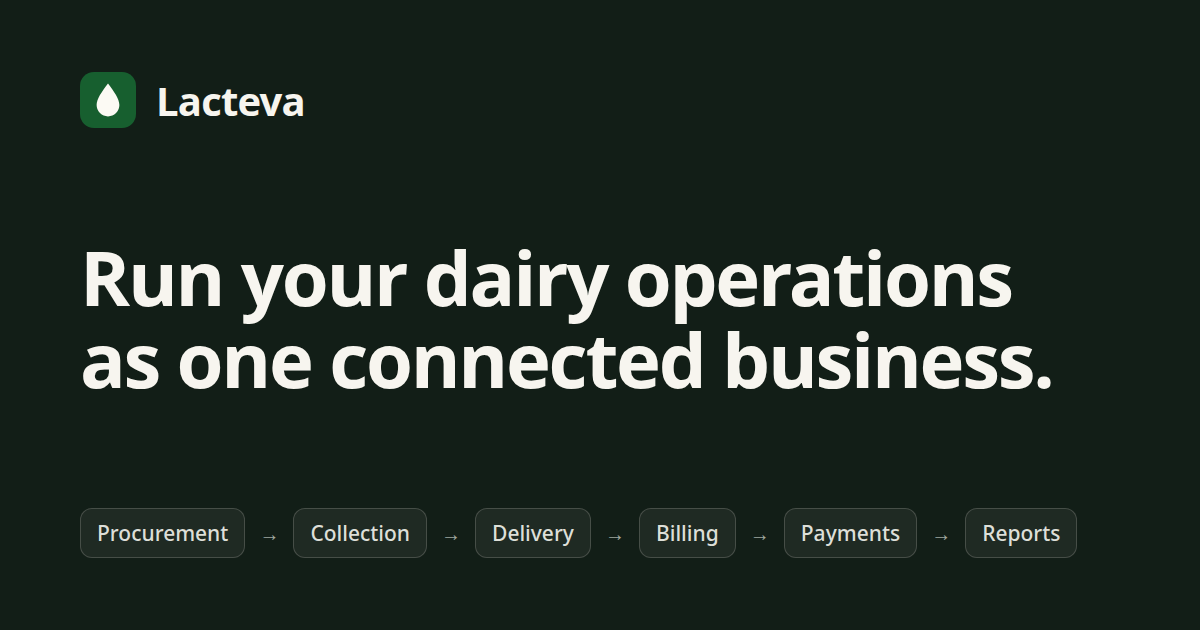
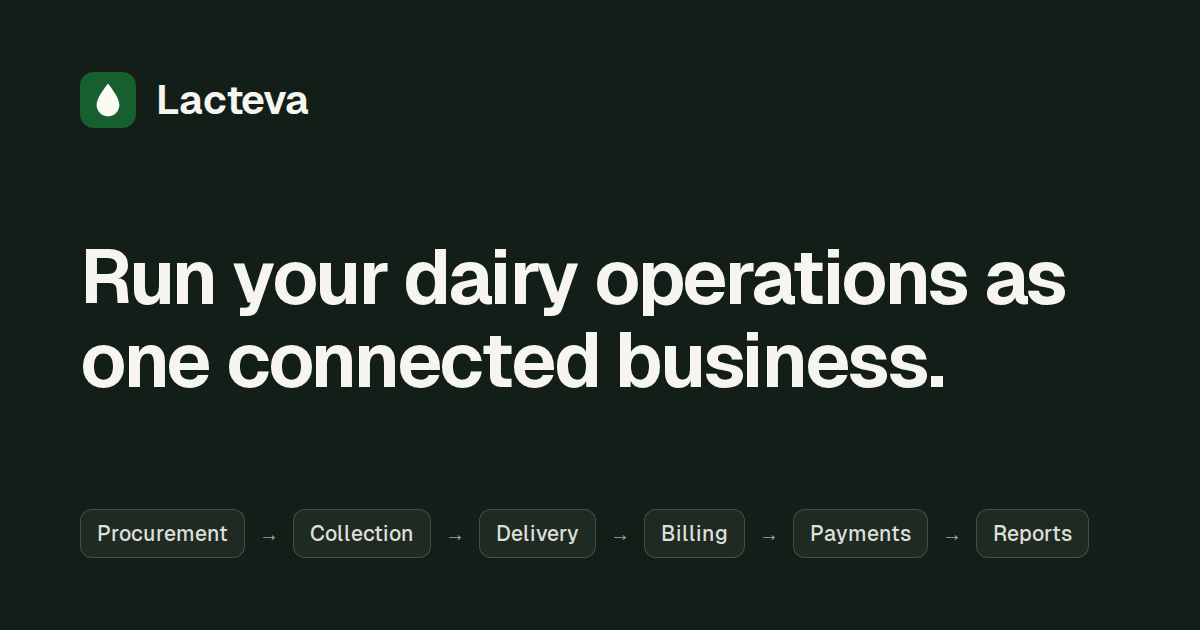
PRE-LAUNCH-001: fix final marketing launch issues
Login added to the mobile navigation row (was sm:-gated; phones had no
header path to the portal), pinned by a header test. The lifecycle's
desktop row-wrap gained its missing connector - the arrow after
Delivery turns down-and-left so eight stages read as one continuous
flow. /why-lacteva retired behind a temporary redirect to /product
(pre-repositioning narrative); page deleted, footer/sitemap updated.
The fifty-plus-countries line became 'built to support dairy
operations across markets' and a claims pattern bans numerical
geographic claims. OG image re-rendered in Geist (woff2 from inside
Next). About -> /company kept per decision. Privacy/terms/contact
email deliberately untouched pending owner content.

Gates: build (16 routes), tsc, eslint --max-warnings 0, 49 tests;
audit across 7 pages x 4 viewports NO PROBLEMS; both retired routes
307 to /product. CHANGELOG entry rides with the parallel session's
DEMO-021 commit (shared worktree, same protocol as MKT-004C).

Claude-Session: https://claude.ai/code/session_018AZvc3DefN4kC4NocUS5mD

diff --git a/apps/marketing-site/src/app/marketing-pages.test.tsx b/apps/marketing-site/src/app/marketing-pages.test.tsx
@@ -2,6 +2,7 @@ import { render, screen } from "@testing-library/react";
 import userEvent from "@testing-library/user-event";
 import { afterEach, describe, expect, it, vi } from "vitest";
 import { LeadForm } from "@/components/lead-form";
+import { SiteHeader } from "@/components/site-header";
 import LoginPage from "./login/page";
 import PricingPage from "./pricing/page";
 import ProductPage from "./product/page";
@@ -96,6 +97,20 @@ describe("pricing page (MKT-004E)", () => {
     for (const link of screen.getAllByRole("link", { name: /book a demo/i })) {
       expect(link).toHaveAttribute("href", "/request-demo");
     }
+  });
+});
+
+describe("site header (PRE-LAUNCH-001)", () => {
+  it("offers Login in both the desktop and mobile navigation", () => {
+    render(<SiteHeader />);
+    const logins = screen.getAllByRole("link", { name: /^login$/i });
+    // One sm+ link and one inside the mobile nav row.
+    expect(logins.length).toBe(2);
+    for (const link of logins) {
+      expect(link).toHaveAttribute("href", "/login");
+    }
+    const mobileNav = screen.getByRole("navigation", { name: /main mobile/i });
+    expect(mobileNav.querySelector('a[href="/login"]')).not.toBeNull();
   });
 });
 

diff --git a/apps/marketing-site/src/components/lifecycle-flow.tsx b/apps/marketing-site/src/components/lifecycle-flow.tsx
@@ -3,6 +3,7 @@ import {
   BarChart3,
   ChevronDown,
   ChevronRight,
+  CornerDownLeft,
   FileText,
   Handshake,
   Milk,
@@ -51,11 +52,16 @@ export function LifecycleFlow() {
               <ChevronDown className="size-4 text-ink-muted" />
             </span>
           ) : null}
-          {/* Desktop connector: within a row only — the wrap from stage 4
-              to stage 5 reads top-to-bottom on its own. */}
-          {i < STAGES.length - 1 && i !== 3 ? (
+          {/* Desktop connector. At the row wrap (stage 4 → 5) the arrow
+              turns down-and-left, so the flow reads as one continuous
+              line instead of breaking at the row edge (PRE-LAUNCH-001). */}
+          {i < STAGES.length - 1 ? (
             <span aria-hidden className="hidden items-center px-1 lg:flex">
-              <ChevronRight className="size-4 shrink-0 text-ink-muted" />
+              {i === 3 ? (
+                <CornerDownLeft className="size-4 shrink-0 text-ink-muted" />
+              ) : (
+                <ChevronRight className="size-4 shrink-0 text-ink-muted" />
+              )}
             </span>
           ) : null}
         </li>

diff --git a/apps/marketing-site/src/app/company/page.tsx b/apps/marketing-site/src/app/company/page.tsx
@@ -81,7 +81,7 @@ export default function CompanyPage() {
         <SectionHeading
           eyebrow="How we build"
           title="Every production guarantee must be executable"
-          lede="Lacteva is built under the Phoenix Software Engineering Standard: guarantees are proven by running them, not by writing them down. Backups restore, recovery is rehearsed, and a test that never ran counts as absent. Ambitious on scope — the long-term vision is a dairy platform serving businesses across fifty-plus countries — and deliberately conservative on claims: this page describes what exists."
+          lede="Lacteva is built under the Phoenix Software Engineering Standard: guarantees are proven by running them, not by writing them down. Backups restore, recovery is rehearsed, and a test that never ran counts as absent. Built to support dairy operations across markets — and deliberately conservative on claims: this page describes what exists."
         />
         <div className="flex flex-wrap items-center gap-3 pt-2">
           <LinkButton href="/start-free-trial">Start Free Trial</LinkButton>

diff --git a/apps/marketing-site/src/components/site-header.tsx b/apps/marketing-site/src/components/site-header.tsx
@@ -3,8 +3,7 @@ import { LinkButton } from "@/components/link-button";
 import { Wordmark } from "@/components/logo";
 
 // Final navigation (MKT-004E). "Resources" stays deferred until there is
-// real content to put behind it; /why-lacteva remains reachable from the
-// footer.
+// real content to put behind it. "About" → /company is intentional.
 const NAV = [
   { href: "/product", label: "Product" },
   { href: "/solutions", label: "Solutions" },
@@ -61,6 +60,15 @@ export function SiteHeader() {
             {item.label}
           </Link>
         ))}
+        {/* PRE-LAUNCH-001: the desktop Login link is sm:block, so phones
+            need it here — existing customers arrive on phones too. */}
+        <Link
+          href="/login"
+          prefetch={false}
+          className="ms-auto text-sm font-medium whitespace-nowrap text-muted-foreground"
+        >
+          Login
+        </Link>
       </nav>
     </header>
   );

diff --git a/apps/marketing-site/src/app/claims.test.ts b/apps/marketing-site/src/app/claims.test.ts
@@ -45,6 +45,9 @@ const FORBIDDEN: Array<{ pattern: RegExp; why: string }> = [
   { pattern: /world'?s (first|largest|best|leading)|largest dairy/i, why: "no market-position superlatives" },
   { pattern: /\bguaranteed\b/i, why: "no guarantees are commercially defined" },
   { pattern: /SOC ?2|ISO ?\d{4,5}|GDPR|HIPAA|PCI[- ]DSS/i, why: "no certifications or compliance attestations exist to claim" },
+  // PRE-LAUNCH-001: no numerical geographic claims — "across markets" is
+  // the approved phrasing.
+  { pattern: /(fifty|forty|thirty|twenty|\d+)[-+\s]*(plus\s+)?countries/i, why: "no numerical geographic claims" },
 ];
 
 function collectSourceFiles(dir: string): string[] {

diff --git a/apps/marketing-site/next.config.ts b/apps/marketing-site/next.config.ts
@@ -42,6 +42,9 @@ const nextConfig: NextConfig = {
   async redirects() {
     const redirects = [
       { source: "/editions", destination: "/product", permanent: false },
+      // PRE-LAUNCH-001: the page carried the pre-repositioning
+      // procurement-first narrative; retired the same way as /editions.
+      { source: "/why-lacteva", destination: "/product", permanent: false },
     ];
     // MKT-004E: /login hands over to the separately deployed authenticated
     // portal when its URL is configured. Unset (local dev without a

diff --git a/apps/marketing-site/src/app/seo.test.ts b/apps/marketing-site/src/app/seo.test.ts
@@ -16,6 +16,7 @@ describe("indexing surface", () => {
     expect(urls).toContain("/pricing");
     expect(urls).not.toContain("/login");
     expect(urls).not.toContain("/editions");
+    expect(urls).not.toContain("/why-lacteva");
     for (const url of urls) {
       expect(url).not.toMatch(/^\/api/);
     }

diff --git a/apps/marketing-site/src/components/site-footer.tsx b/apps/marketing-site/src/components/site-footer.tsx
@@ -8,7 +8,6 @@ const COLUMNS = [
       { href: "/product", label: "How Lacteva works" },
       { href: "/solutions", label: "Solutions" },
       { href: "/pricing", label: "Pricing" },
-      { href: "/why-lacteva", label: "Why Lacteva" },
     ],
   },
   {

diff --git a/apps/marketing-site/src/app/sitemap.ts b/apps/marketing-site/src/app/sitemap.ts
@@ -8,7 +8,6 @@ const ROUTES = [
   "/product",
   "/solutions",
   "/pricing",
-  "/why-lacteva",
   "/company",
   "/request-demo",
   "/start-free-trial",
